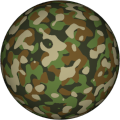
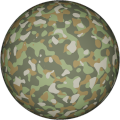
Updated camouflage examples

diff --git a/docs/camouflage.md b/docs/camouflage.md
@@ -12,15 +12,15 @@ Click on a snapshot to open it online.
 
 <p class="gallery">
 
-	<a class="style-block nocaption" href="../online/camouflage.html">
+	<a class="style-block nocaption" href="../online/camouflage.html?scale=2&colorA=12762792&colorB=10258782&colorC=9610101&colorD=7435617">
 		<img src="images/camouflage-1.png">
 	</a>
 
-	<a class="style-block nocaption" href="../online/camouflage.html?">
+	<a class="style-block nocaption" href="../online/camouflage.html?scale=0.72&colorA=15519740&colorB=6910716&colorC=16662773&colorD=10456237&seed=0">
 		<img src="images/camouflage-2.png">
 	</a>
 
-	<a class="style-block nocaption" href="../online/camouflage.html?">
+	<a class="style-block nocaption" href="../online/camouflage.html?scale=3.24&colorA=16772864&colorB=16711680&colorC=65393&colorD=0&seed=0">
 		<img src="images/camouflage-3.png">
 	</a>
 
@@ -64,7 +64,7 @@ The parameters of the texture generator are:
 
 ### Source
 
-[src/patterns/camouflage.js](https://github.com/boytchev/tsl-textures/blob/main/src/patterns/camouflage.js)
+[src/patterns/camouflage.js](https://github.com/boytchev/tsl-textures/blob/main/src/camouflage.js)
 
 
 		

diff --git a/CHANGELOG.md b/CHANGELOG.md
@@ -1,6 +1,9 @@
 # TSL Textures
 
 
+## 0.2.0
+* Added Camouflage in *camouflage.js*
+
 ## 0.1.1
 * Reduced package size by removing unnecessary files
 
